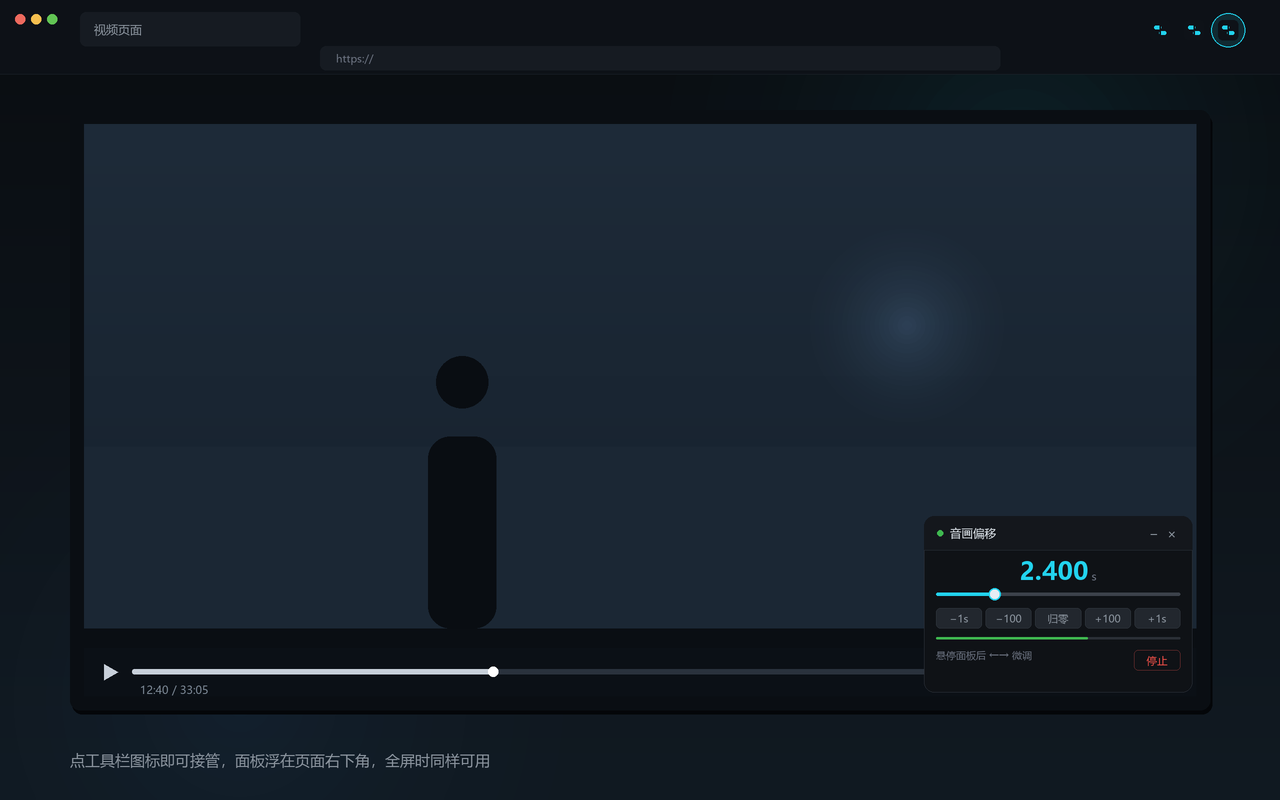
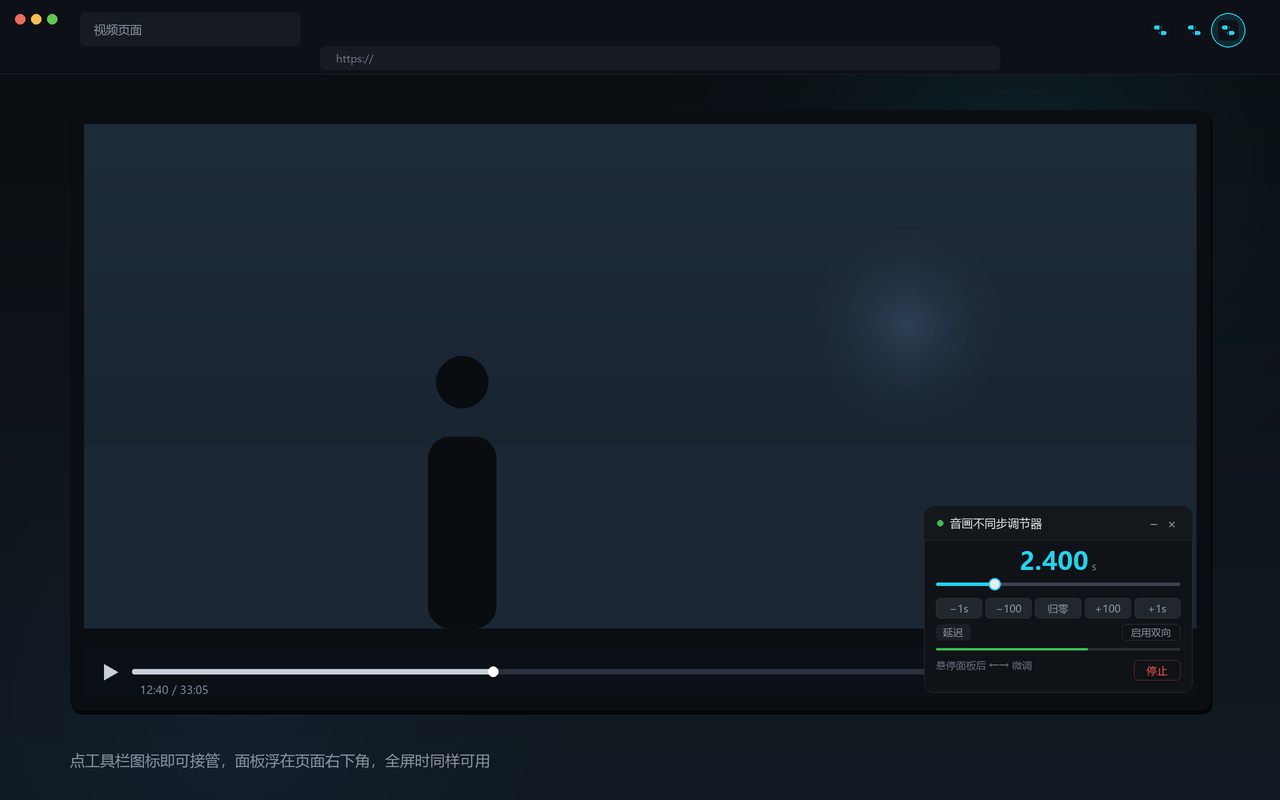
chore(store): 重绘示意图并补齐审核说明
截图（store/*.png 由 tools/make-store-assets.py 重新生成）：
- 面板标题从旧名「音画偏移」改为「音画不同步调节器」，包括面板头部和两张
  推广图里的大标题 —— 这是改名时漏掉的一批。
- 更实际的问题是示意图少了一整行：面板现在有「模式标签 + 启用双向」，
  图里没有。按政策 1.1.2「渲染正确」属于与实际功能不符，所以按
  ads-template.js 逐行补齐，PANEL_H 176 → 186。
- 面板特写的标注从 5 条加到 6 条（新增「模式」），并改成引线对准控件、
  文字按最小行距下推 —— 六行等距排会「标题压上一条说明」。

提交材料（store/SUBMISSION.md）：
- Certification notes 新增 WHAT THE EXTENSION READS AND STORES 一节，把原先
  散在「Data usage」下面、需要另外找地方粘的两段（只读 <video> 的时间属性、
  storage.local 只有两个键）正式并进给审核员的正文。
- 同一节里「扩展零网络请求」改成如实表述：扩展自身不调外部服务，但双向模式
  在非 MSE 页面上会让浏览器把同一路流再拉一次。原措辞一测就能被驳。
  键名核对过：lastDelayMs / enhancedOrigins；adsDebug 只存在于开发版的
  bg-capture.js，上架包里没有这个键。
- 截图章节去掉「面板仍写着旧名」的过时警告，补「怎么重绘示意图」，
  并写明改面板结构时必须重绘这张图。

Changed region(s): [[0.7188, 0.625, 0.9375, 0.8438]]

diff --git a/tools/make-store-assets.py b/tools/make-store-assets.py
@@ -116,7 +116,10 @@ def draw_icon(img, x, y, size):
 # 尺寸取自 content.js：268 宽，头部 34，body 各控件按 CSS 像素
 
 PANEL_W = 268
-PANEL_H = 176
+# 头部 34 + 正文 151（读数 / 滑块 / 步进 / 模式 / 电平 / 底栏）。
+# 这六行与 ads-template.js 的真实结构一一对应：商店要求示意图与实际功能一致，
+# 少画一行「模式 + 启用双向」就等于把一个功能从图里删掉了。
+PANEL_H = 186
 
 
 def draw_panel(img, x, y, k, ms, active=True, meter=0.62):
@@ -135,7 +138,7 @@ def draw_panel(img, x, y, k, ms, active=True, meter=0.62):
     cy = y + head_h / 2
     d.ellipse([S(x + 13 * k), S(cy - 3 * k), S(x + 19 * k), S(cy + 3 * k)],
               fill=C["ok"] if active else C["faint"])
-    text(d, (x + 26 * k, cy), "音画偏移", 11.5 * k, C["text"], anchor="lm")
+    text(d, (x + 26 * k, cy), "音画不同步调节器", 11.5 * k, C["text"], anchor="lm")
     text(d, (x + W - 20 * k, cy), "×", 13 * k, C["dim"], anchor="mm")
     text(d, (x + W - 38 * k, cy), "−", 13 * k, C["dim"], anchor="mm")
 
@@ -175,14 +178,27 @@ def draw_panel(img, x, y, k, ms, active=True, meter=0.62):
                             radius=S(4 * k), fill=(34, 39, 46), outline=(48, 54, 62), width=max(1, S(0.5)))
         text(d, (bx + btn_w / 2, btn_y + btn_h / 2), label, 10.5 * k, C["dim"], anchor="mm")
 
-    met_y = body_y + 87 * k
+    # 模式行：左边模式标签，右边「启用双向」按钮（对应源码 .mode）
+    mode_y = body_y + 84 * k
+    tag_w, tag_h = 34 * k, 16 * k
+    d.rounded_rectangle([S(x + pad), S(mode_y), S(x + pad + tag_w), S(mode_y + tag_h)],
+                        radius=S(4 * k), fill=(28, 32, 38))
+    text(d, (x + pad + tag_w / 2, mode_y + tag_h / 2), "延迟", 10 * k, C["dim"], anchor="mm")
+
+    mb_w, mb_h = 58 * k, 16 * k
+    mbx = x + W - pad - mb_w
+    d.rounded_rectangle([S(mbx), S(mode_y), S(mbx + mb_w), S(mode_y + mb_h)],
+                        radius=S(4 * k), fill=C["panel"], outline=(52, 58, 66), width=max(1, S(0.6)))
+    text(d, (mbx + mb_w / 2, mode_y + mb_h / 2), "启用双向", 10 * k, C["dim"], anchor="mm")
+
+    met_y = body_y + 108 * k
     d.rounded_rectangle([S(x + pad), S(met_y), S(x + pad + inner_w), S(met_y + 2 * k)],
                         radius=S(1 * k), fill=(42, 47, 54))
     if active:
         d.rounded_rectangle([S(x + pad), S(met_y), S(x + pad + inner_w * meter), S(met_y + 2 * k)],
                             radius=S(1 * k), fill=C["ok"])
 
-    foot_y = body_y + 100 * k
+    foot_y = body_y + 120 * k
     text(d, (x + pad, foot_y + 5 * k), "悬停面板后 ←→ 微调", 10 * k, C["faint"], anchor="lm")
 
     stop_w, stop_h = 46 * k, 20 * k
@@ -283,24 +299,32 @@ def screenshot_panel():
     text(d, (80, 146), "没有第二个弹窗，点图标接管，所有调节都在这里", 15, C["dim"])
 
     k = 1.75
-    px, py = 80, 230
+    px, py = 80, 215
     draw_panel(img, px, py, k, 2400)
     pw, ph = PANEL_W * k, PANEL_H * k
 
-    marks = [
-        (py + (34 + 20) * k, "延迟读数", "拖动后立刻变化，单位是秒"),
-        (py + (34 + 44) * k, "滑块", "0 ~ 10 秒，松手即生效"),
-        (py + (34 + 58) * k, "步进按钮", "100 毫秒 / 1 秒 精调，归零一键回原点"),
-        (py + (34 + 87) * k, "电平条", "绿色在跳，才说明真的出声了"),
-        (py + (34 + 100) * k, "停止", "声音立刻回到页面，不留后台"),
+    # (正文内的纵向位置, 标题, 说明)：数值取 draw_panel 里各控件的中线，
+    # 引线起点对得准；文字位置在下面循环里按最小行距往下推，避免六行挤在一起。
+    rows = [
+        (20, "延迟读数", "拖动后立刻变化，单位是秒"),
+        (44, "滑块", "0 ~ 10 秒，松手即生效"),
+        (68, "步进按钮", "100 毫秒 / 1 秒 精调，归零回原点"),
+        (92, "模式", "默认只能延后，双向才可提前"),
+        (109, "电平条", "绿色在跳，才说明真的出声了"),
+        (130, "停止", "声音立刻回到页面，不留后台"),
     ]
 
     lx = px + pw + 74
-    for my, title, desc in marks:
-        d.ellipse([S(px + pw + 8), S(my - 3), S(px + pw + 14), S(my + 3)], fill=C["accent"])
-        d.line([(S(px + pw + 14), S(my)), (S(lx - 16), S(my))], fill=(40, 60, 70), width=max(1, S(0.8)))
-        text(d, (lx, my - 9), title, 15, C["text"], bold=True)
-        text(d, (lx, my + 11), desc, 12.5, C["dim"])
+    last = -1e9
+    for off, title, desc in rows:
+        ey = py + (34 + off) * k
+        # 六行比原来的五行密，行距小于 42 就会「标题压上一条说明」，所以下限放大
+        ly = max(ey, last + 42)
+        last = ly
+        d.ellipse([S(px + pw + 8), S(ey - 3), S(px + pw + 14), S(ey + 3)], fill=C["accent"])
+        d.line([(S(px + pw + 14), S(ey)), (S(lx - 16), S(ly))], fill=(40, 60, 70), width=max(1, S(0.8)))
+        text(d, (lx, ly - 9), title, 14, C["text"], bold=True)
+        text(d, (lx, ly + 12), desc, 12, C["dim"])
 
     return img
 
@@ -318,7 +342,7 @@ def promo(w, h, k):
     draw_icon(img, ix, iy, isz)
 
     title_size = max(15, h * 0.072)
-    text(d, (ix, iy + isz + h * 0.10), "音画偏移", title_size, C["text"], bold=True)
+    text(d, (ix, iy + isz + h * 0.10), "音画不同步调节器", title_size, C["text"], bold=True)
     text(d, (ix, iy + isz + h * 0.10 + title_size * 1.45), "标签页音频延迟", max(10, h * 0.040), C["accent"])
 
     pk = max(0.42, h / 540.0)
